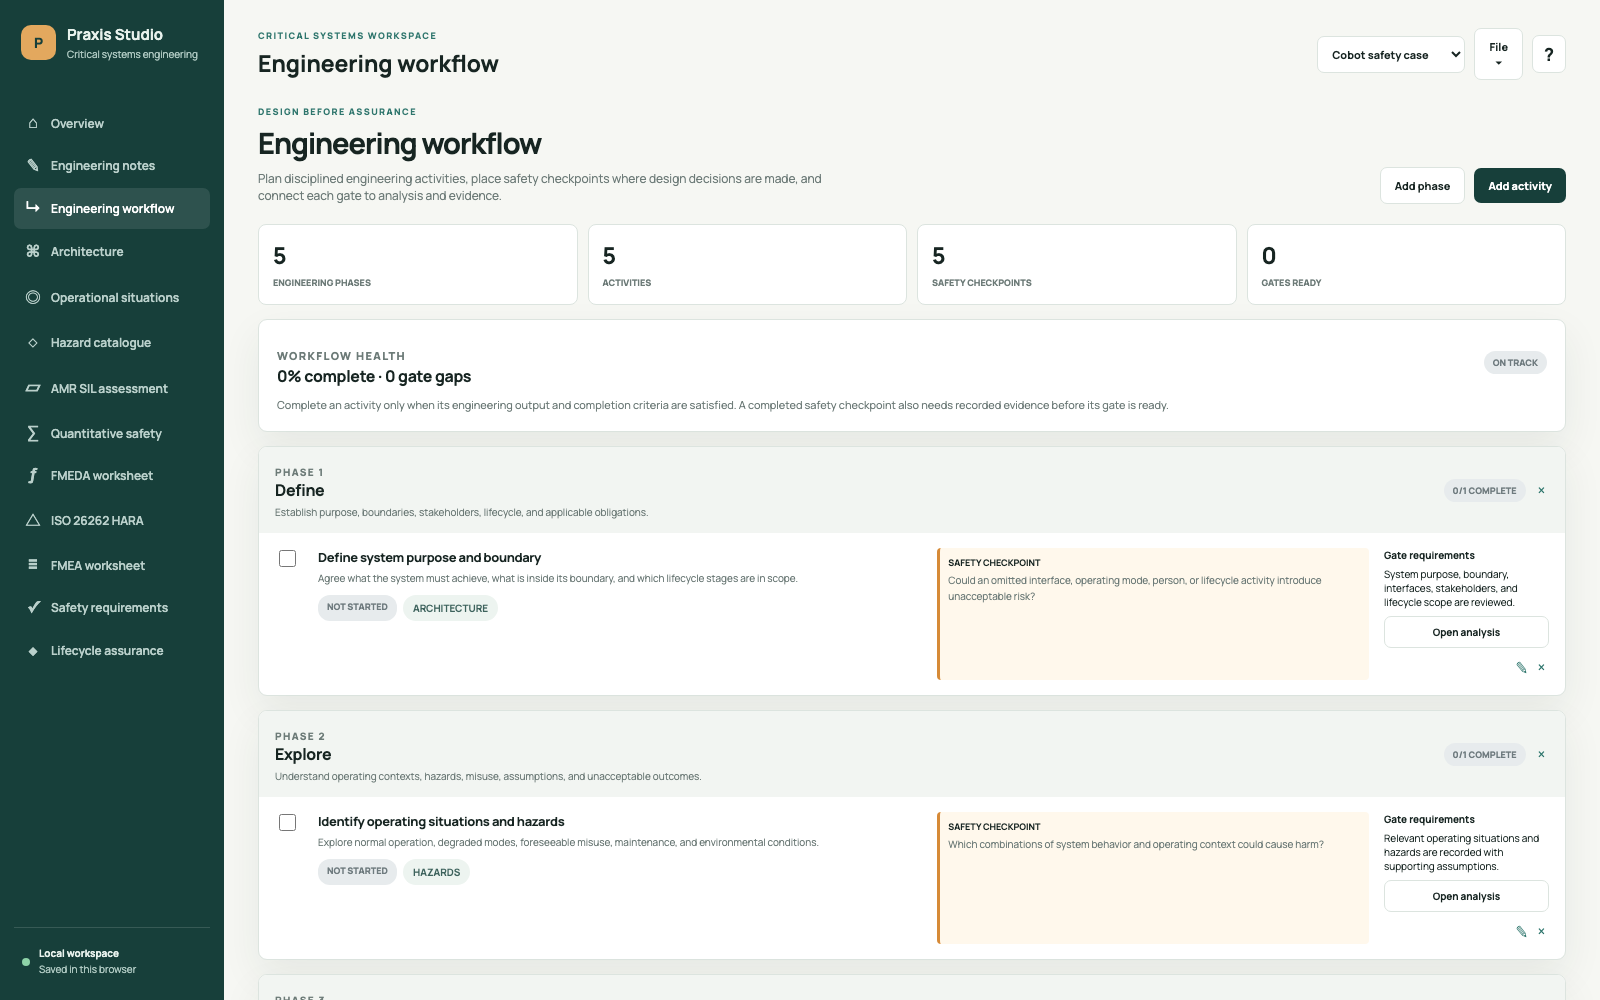
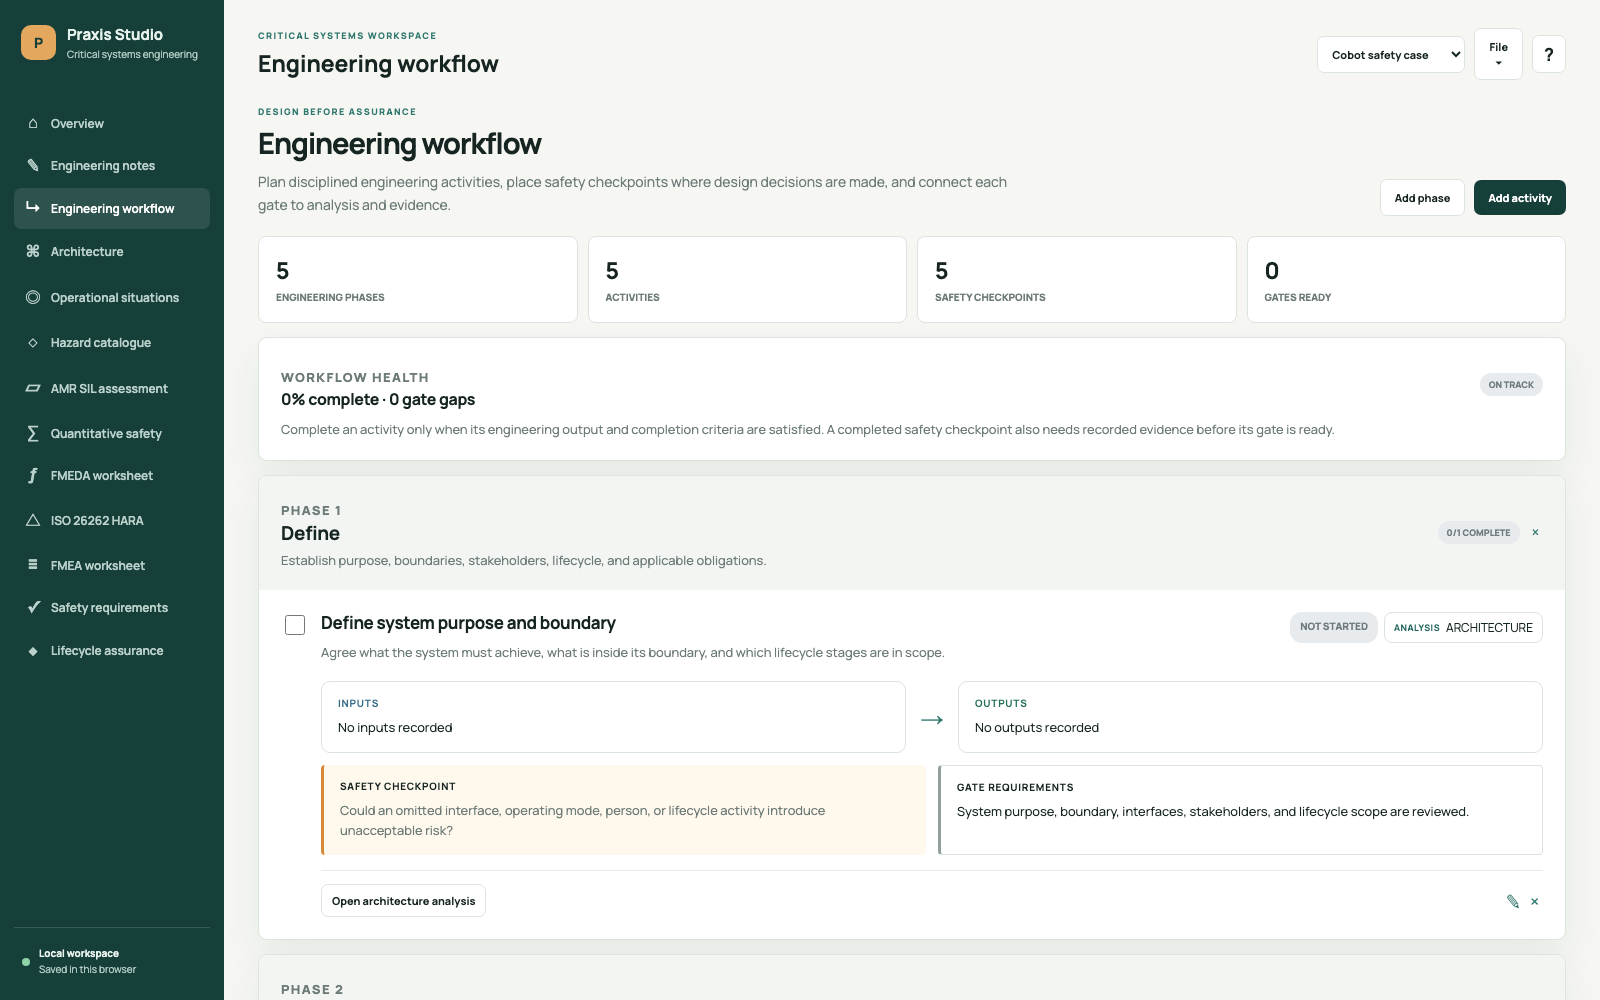
Improve engineering workflow visualization

diff --git a/index.html b/index.html
@@ -487,35 +487,52 @@
       </form>
     </dialog>
 
-    <dialog id="workflow-phase-dialog">
-      <form method="dialog" id="workflow-phase-form">
+    <dialog id="workflow-phase-dialog" class="workflow-dialog">
+      <form method="dialog" id="workflow-phase-form" class="workflow-form">
         <div class="dialog-header"><div><p class="eyebrow">Workflow structure</p><h2>Add engineering phase</h2></div><button class="dialog-close" type="button" data-close-dialog>×</button></div>
+        <p class="workflow-form-intro">Create a phase that groups related engineering activities around a clear lifecycle purpose.</p>
         <div class="form-grid">
           <label><span>Phase name</span><input name="name" required placeholder="e.g. Concept design" /></label>
-          <label><span>Purpose</span><input name="purpose" required placeholder="What should this phase establish?" /></label>
+          <label><span>Purpose</span><textarea name="purpose" required placeholder="What should this phase establish?"></textarea></label>
         </div>
         <div class="dialog-actions"><button class="button secondary" type="button" data-close-dialog>Cancel</button><button class="button primary" value="default">Add phase</button></div>
       </form>
     </dialog>
 
-    <dialog id="workflow-activity-dialog">
-      <form method="dialog" id="workflow-activity-form">
+    <dialog id="workflow-activity-dialog" class="workflow-dialog workflow-activity-dialog">
+      <form method="dialog" id="workflow-activity-form" class="workflow-form">
         <div class="dialog-header"><div><p class="eyebrow">Engineering activity</p><h2 id="workflow-activity-title">Add activity</h2></div><button class="dialog-close" type="button" data-close-dialog>×</button></div>
         <input type="hidden" name="id" />
-        <div class="form-grid">
-          <label><span>Phase</span><select name="phaseId" required></select></label>
-          <label><span>Owner</span><input name="owner" placeholder="e.g. System architect" /></label>
-          <label><span>Predecessor gate</span><select name="predecessor"><option value="">No predecessor</option></select></label>
-          <label class="wide"><span>Activity</span><input name="title" required placeholder="e.g. Define system boundary" /></label>
-          <label class="wide"><span>Objective</span><textarea name="objective" required placeholder="What engineering decision or output should this activity produce?"></textarea></label>
-          <label><span>Inputs</span><input name="inputs" placeholder="Models, stakeholder needs, assumptions" /></label>
-          <label><span>Outputs</span><input name="outputs" placeholder="Architecture, decision record, requirements" /></label>
-          <label class="wide"><span>Safety checkpoint</span><textarea name="safetyCheckpoint" placeholder="What safety question must be considered at this point?"></textarea></label>
-          <label><span>Linked analysis</span><select name="analysis"><option value="">No linked analysis</option><option value="architecture">Architecture</option><option value="situations">Operational situations</option><option value="hazards">Hazard catalogue</option><option value="hara">HARA</option><option value="sil">SIL assessment</option><option value="fmea">FMEA</option><option value="fmeda">FMEDA</option><option value="quantitative">Quantitative safety</option><option value="requirements">Safety requirements</option><option value="assurance">Lifecycle assurance</option></select></label>
-          <label><span>Status</span><select name="status"><option>Not started</option><option>In progress</option><option>Complete</option></select></label>
-          <label class="wide"><span>Standard or assurance objective</span><input name="standardReference" placeholder="e.g. IEC 61508-1 clause 7.1 or internal design-review objective" /></label>
-          <label class="wide"><span>Completion criteria</span><input name="completionCriteria" placeholder="Conditions required before this activity is complete" /></label>
-          <label class="wide"><span>Evidence</span><input name="evidence" placeholder="Review record, test report, model, calculation, or decision rationale" /></label>
+        <p class="workflow-form-intro">Describe the work, the information it consumes, the deliverables it creates, and the evidence needed to pass its gate.</p>
+        <div class="workflow-form-sections">
+          <section class="workflow-form-section">
+            <div class="workflow-form-section-heading"><span>1</span><div><h3>Activity definition</h3><p>Place the task in the lifecycle and make accountability clear.</p></div></div>
+            <div class="form-grid">
+              <label><span>Phase</span><select name="phaseId" required></select></label>
+              <label><span>Owner</span><input name="owner" placeholder="e.g. System architect" /></label>
+              <label><span>Status</span><select name="status"><option>Not started</option><option>In progress</option><option>Complete</option></select></label>
+              <label><span>Predecessor gate</span><select name="predecessor"><option value="">No predecessor</option></select></label>
+              <label class="wide"><span>Activity</span><input name="title" required placeholder="e.g. Define system boundary" /></label>
+              <label class="wide"><span>Objective</span><textarea name="objective" required placeholder="What engineering decision or result should this activity produce?"></textarea></label>
+            </div>
+          </section>
+          <section class="workflow-form-section workflow-form-flow">
+            <div class="workflow-form-section-heading"><span>2</span><div><h3>Inputs and deliverables</h3><p>Show what the task needs and what downstream work can expect from it.</p></div></div>
+            <div class="form-grid">
+              <label><span>Inputs</span><textarea name="inputs" placeholder="Models, stakeholder needs, assumptions, prior decisions"></textarea></label>
+              <label><span>Outputs</span><textarea name="outputs" placeholder="Architecture, decision record, requirements, calculations"></textarea></label>
+            </div>
+          </section>
+          <section class="workflow-form-section workflow-form-assurance">
+            <div class="workflow-form-section-heading"><span>3</span><div><h3>Safety and assurance</h3><p>Connect the activity to analysis, acceptance criteria, and objective evidence.</p></div></div>
+            <div class="form-grid">
+              <label><span>Linked analysis</span><select name="analysis"><option value="">No linked analysis</option><option value="architecture">Architecture</option><option value="situations">Operational situations</option><option value="hazards">Hazard catalogue</option><option value="hara">HARA</option><option value="sil">SIL assessment</option><option value="fmea">FMEA</option><option value="fmeda">FMEDA</option><option value="quantitative">Quantitative safety</option><option value="requirements">Safety requirements</option><option value="assurance">Lifecycle assurance</option></select></label>
+              <label><span>Standard or assurance objective</span><input name="standardReference" placeholder="e.g. IEC 61508-1 clause 7.1" /></label>
+              <label class="wide"><span>Safety checkpoint</span><textarea name="safetyCheckpoint" placeholder="What safety question must be considered at this point?"></textarea></label>
+              <label class="wide"><span>Completion criteria</span><textarea name="completionCriteria" placeholder="Conditions required before this activity is complete"></textarea></label>
+              <label class="wide"><span>Evidence</span><textarea name="evidence" placeholder="Review record, test report, model, calculation, or decision rationale"></textarea></label>
+            </div>
+          </section>
         </div>
         <div class="dialog-actions"><button class="button secondary" type="button" data-close-dialog>Cancel</button><button class="button primary" value="default">Save activity</button></div>
       </form>

diff --git a/app/praxis-studio.browser.js b/app/praxis-studio.browser.js
@@ -1404,11 +1404,31 @@ function renderWorkflow() {
       <div class="workflow-activity-list">${phaseActivities.length ? phaseActivities.map((activity) => {
       const ready2 = workflowGateReady(activity);
       const statusClass = activity.status === "Complete" ? "verified" : activity.status === "In progress" ? "planned" : "draft";
+      const predecessor = state.workflow.activities.find((item) => item.id === activity.predecessor);
       return `<article class="workflow-activity">
           <input class="workflow-check" type="checkbox" title="Mark complete" data-toggle-workflow-activity="${activity.id}" ${activity.status === "Complete" ? "checked" : ""} />
-          <div><h3>${esc(activity.title)}</h3><p>${esc(activity.objective)}</p><div class="workflow-meta"><span class="status ${statusClass}">${esc(activity.status)}</span>${activity.owner ? `<span class="tag">${esc(activity.owner)}</span>` : ""}${activity.analysis ? `<span class="tag">${esc(activity.analysis.toUpperCase())}</span>` : ""}${activity.standardReference ? `<span class="tag">${esc(activity.standardReference)}</span>` : ""}${activity.predecessor ? `<span class="tag">After ${esc(state.workflow.activities.find((item) => item.id === activity.predecessor)?.title || "missing gate")}</span>` : ""}</div></div>
-          <div class="workflow-checkpoint"><strong>Safety checkpoint</strong><p>${esc(activity.safetyCheckpoint || "No checkpoint defined. Review whether this decision can affect risk.")}</p></div>
-          <div class="workflow-row-actions"><div class="workflow-evidence ${activity.status === "Complete" && !ready2 ? "missing" : ""}"><strong>${ready2 ? "Gate evidence ready" : "Gate requirements"}</strong>${esc(activity.evidence || activity.completionCriteria || "Add completion criteria and evidence.")}</div>${activity.analysis ? `<button class="button secondary small" data-open-workflow-analysis="${activity.analysis}">Open analysis</button>` : ""}<div class="row-actions"><button class="mini-btn" title="Edit" data-edit-workflow-activity="${activity.id}">✎</button><button class="mini-btn" title="Delete" data-delete-workflow-activity="${activity.id}">×</button></div></div>
+          <div class="workflow-activity-content">
+            <div class="workflow-activity-heading">
+              <div><h3>${esc(activity.title)}</h3><div class="workflow-objective"><strong>Objective</strong><p>${esc(activity.objective)}</p></div></div>
+              <div class="workflow-meta">
+                <span class="status ${statusClass}">${esc(activity.status)}</span>
+                ${activity.owner ? `<span class="workflow-chip owner"><b>Owner</b>${esc(activity.owner)}</span>` : ""}
+                ${activity.analysis ? `<span class="workflow-chip analysis"><b>Analysis</b>${esc(activity.analysis.toUpperCase())}</span>` : ""}
+                ${activity.standardReference ? `<span class="workflow-chip standard"><b>Standard</b>${esc(activity.standardReference)}</span>` : ""}
+                ${activity.predecessor ? `<span class="workflow-chip predecessor"><b>After</b>${esc(predecessor?.title || "Missing gate")}</span>` : ""}
+              </div>
+            </div>
+            <div class="workflow-flow">
+              <section class="workflow-data inputs"><strong>Inputs</strong><p>${esc(activity.inputs || "No inputs recorded")}</p></section>
+              <span class="workflow-flow-arrow" aria-hidden="true">→</span>
+              <section class="workflow-data outputs"><strong>Outputs</strong><p>${esc(activity.outputs || "No outputs recorded")}</p></section>
+            </div>
+            <div class="workflow-assurance-grid">
+              <div class="workflow-checkpoint"><strong>Safety checkpoint</strong><p>${esc(activity.safetyCheckpoint || "No checkpoint defined. Review whether this decision can affect risk.")}</p></div>
+              <div class="workflow-evidence ${activity.status === "Complete" && !ready2 ? "missing" : ""}"><strong>${ready2 ? "Gate evidence ready" : "Gate requirements"}</strong><p>${esc(activity.evidence || activity.completionCriteria || "Add completion criteria and evidence.")}</p></div>
+            </div>
+            <div class="workflow-row-actions">${activity.analysis ? `<button class="button secondary small" data-open-workflow-analysis="${activity.analysis}">Open ${esc(activity.analysis)} analysis</button>` : ""}<div class="row-actions"><button class="mini-btn" title="Edit" data-edit-workflow-activity="${activity.id}">✎</button><button class="mini-btn" title="Delete" data-delete-workflow-activity="${activity.id}">×</button></div></div>
+          </div>
         </article>`;
     }).join("") : '<p class="workflow-empty">No activities in this phase yet.</p>'}</div>
     </section>`;

diff --git a/app/praxis-studio.ts b/app/praxis-studio.ts
@@ -1105,11 +1105,31 @@ function renderWorkflow() {
       <div class="workflow-activity-list">${phaseActivities.length ? phaseActivities.map(activity => {
         const ready = workflowGateReady(activity);
         const statusClass = activity.status === "Complete" ? "verified" : activity.status === "In progress" ? "planned" : "draft";
+        const predecessor = state.workflow.activities.find(item => item.id === activity.predecessor);
         return `<article class="workflow-activity">
           <input class="workflow-check" type="checkbox" title="Mark complete" data-toggle-workflow-activity="${activity.id}" ${activity.status === "Complete" ? "checked" : ""} />
-          <div><h3>${esc(activity.title)}</h3><p>${esc(activity.objective)}</p><div class="workflow-meta"><span class="status ${statusClass}">${esc(activity.status)}</span>${activity.owner ? `<span class="tag">${esc(activity.owner)}</span>` : ""}${activity.analysis ? `<span class="tag">${esc(activity.analysis.toUpperCase())}</span>` : ""}${activity.standardReference ? `<span class="tag">${esc(activity.standardReference)}</span>` : ""}${activity.predecessor ? `<span class="tag">After ${esc(state.workflow.activities.find(item => item.id === activity.predecessor)?.title || "missing gate")}</span>` : ""}</div></div>
-          <div class="workflow-checkpoint"><strong>Safety checkpoint</strong><p>${esc(activity.safetyCheckpoint || "No checkpoint defined. Review whether this decision can affect risk.")}</p></div>
-          <div class="workflow-row-actions"><div class="workflow-evidence ${activity.status === "Complete" && !ready ? "missing" : ""}"><strong>${ready ? "Gate evidence ready" : "Gate requirements"}</strong>${esc(activity.evidence || activity.completionCriteria || "Add completion criteria and evidence.")}</div>${activity.analysis ? `<button class="button secondary small" data-open-workflow-analysis="${activity.analysis}">Open analysis</button>` : ""}<div class="row-actions"><button class="mini-btn" title="Edit" data-edit-workflow-activity="${activity.id}">✎</button><button class="mini-btn" title="Delete" data-delete-workflow-activity="${activity.id}">×</button></div></div>
+          <div class="workflow-activity-content">
+            <div class="workflow-activity-heading">
+              <div><h3>${esc(activity.title)}</h3><div class="workflow-objective"><strong>Objective</strong><p>${esc(activity.objective)}</p></div></div>
+              <div class="workflow-meta">
+                <span class="status ${statusClass}">${esc(activity.status)}</span>
+                ${activity.owner ? `<span class="workflow-chip owner"><b>Owner</b>${esc(activity.owner)}</span>` : ""}
+                ${activity.analysis ? `<span class="workflow-chip analysis"><b>Analysis</b>${esc(activity.analysis.toUpperCase())}</span>` : ""}
+                ${activity.standardReference ? `<span class="workflow-chip standard"><b>Standard</b>${esc(activity.standardReference)}</span>` : ""}
+                ${activity.predecessor ? `<span class="workflow-chip predecessor"><b>After</b>${esc(predecessor?.title || "Missing gate")}</span>` : ""}
+              </div>
+            </div>
+            <div class="workflow-flow">
+              <section class="workflow-data inputs"><strong>Inputs</strong><p>${esc(activity.inputs || "No inputs recorded")}</p></section>
+              <span class="workflow-flow-arrow" aria-hidden="true">→</span>
+              <section class="workflow-data outputs"><strong>Outputs</strong><p>${esc(activity.outputs || "No outputs recorded")}</p></section>
+            </div>
+            <div class="workflow-assurance-grid">
+              <div class="workflow-checkpoint"><strong>Safety checkpoint</strong><p>${esc(activity.safetyCheckpoint || "No checkpoint defined. Review whether this decision can affect risk.")}</p></div>
+              <div class="workflow-evidence ${activity.status === "Complete" && !ready ? "missing" : ""}"><strong>${ready ? "Gate evidence ready" : "Gate requirements"}</strong><p>${esc(activity.evidence || activity.completionCriteria || "Add completion criteria and evidence.")}</p></div>
+            </div>
+            <div class="workflow-row-actions">${activity.analysis ? `<button class="button secondary small" data-open-workflow-analysis="${activity.analysis}">Open ${esc(activity.analysis)} analysis</button>` : ""}<div class="row-actions"><button class="mini-btn" title="Edit" data-edit-workflow-activity="${activity.id}">✎</button><button class="mini-btn" title="Delete" data-delete-workflow-activity="${activity.id}">×</button></div></div>
+          </div>
         </article>`;
       }).join("") : '<p class="workflow-empty">No activities in this phase yet.</p>'}</div>
     </section>`;

diff --git a/styles.css b/styles.css
@@ -10,3 +10,24 @@
 .help-sections{display:grid;gap:10px;grid-template-columns:1fr 1fr}.help-sections section{background:#f7f9f7;border-radius:7px;padding:11px}.help-sections h3{font-size:12px;margin:0 0 6px}.help-sections p{color:var(--muted);font-size:10px;line-height:1.6;margin:0}.help-sections code{font-family:"DM Mono";font-size:9px}@media(max-width:700px){.help-sections{grid-template-columns:1fr}}
 .workflow-summary{display:grid;gap:10px;grid-template-columns:repeat(4,1fr);margin-bottom:14px}.workflow-stat{background:#fff;border:1px solid var(--line);border-radius:8px;padding:14px}.workflow-stat strong{display:block;font-size:23px}.workflow-stat span{color:var(--muted);font-size:9px;font-weight:800;text-transform:uppercase}.workflow-guidance{margin-bottom:14px}.workflow-guidance p{color:var(--muted);font-size:11px;line-height:1.6;margin:9px 0 0}.workflow-board{display:grid;gap:14px}.workflow-phase{background:#fff;border:1px solid var(--line);border-radius:9px;box-shadow:var(--shadow);overflow:hidden}.workflow-phase-header{align-items:center;background:#f2f5f2;display:flex;justify-content:space-between;padding:14px 16px}.workflow-phase-header p{color:var(--muted);font-size:10px;margin:4px 0 0}.workflow-phase-actions{align-items:center;display:flex;gap:8px}.workflow-activity-list{display:grid}.workflow-activity{border-top:1px solid #e7ece9;display:grid;gap:15px;grid-template-columns:28px minmax(220px,1.4fr) minmax(180px,1fr) 165px;padding:15px 16px}.workflow-activity:first-child{border-top:0}.workflow-check{accent-color:var(--teal);height:17px;margin-top:2px;width:17px}.workflow-activity h3{font-size:13px;margin:0 0 5px}.workflow-activity p{color:var(--muted);font-size:10px;line-height:1.55;margin:0}.workflow-meta{display:flex;flex-wrap:wrap;gap:6px;margin-top:8px}.workflow-checkpoint{background:#fff8ec;border-left:3px solid var(--amber);border-radius:4px;padding:8px}.workflow-checkpoint strong{display:block;font-size:9px;margin-bottom:4px;text-transform:uppercase}.workflow-evidence{font-size:10px}.workflow-evidence strong{display:block;margin-bottom:5px}.workflow-evidence.missing{color:var(--red)}.workflow-empty{color:var(--muted);font-size:11px;padding:16px}.workflow-row-actions{align-items:flex-end;display:flex;flex-direction:column;gap:7px}.workflow-row-actions .button{width:100%}@media(max-width:900px){.workflow-activity{grid-template-columns:28px 1fr}.workflow-checkpoint,.workflow-row-actions{grid-column:2}.workflow-summary{grid-template-columns:repeat(2,1fr)}}@media(max-width:700px){.workflow-summary{grid-template-columns:1fr 1fr}.workflow-phase-header{align-items:flex-start;gap:10px}.workflow-activity{grid-template-columns:24px 1fr;padding:12px}}
 .sidebar nav{overflow-y:auto}.assurance-summary{display:grid;gap:10px;grid-template-columns:repeat(5,1fr);margin-bottom:14px}.assurance-health{margin-bottom:14px}.assurance-health p{color:var(--muted);font-size:11px;line-height:1.65;margin:10px 0 0}.assurance-section-grid{display:grid;gap:14px;grid-template-columns:1.2fr 1fr;margin-bottom:14px}.assurance-panel{overflow:hidden;padding:0}.assurance-panel .card-header{padding:16px 18px}.assurance-table{min-width:760px}.assurance-board{display:grid;gap:14px;grid-template-columns:repeat(2,1fr)}.assurance-record-group{background:#fff;border:1px solid var(--line);border-radius:9px;box-shadow:var(--shadow);overflow:hidden}.assurance-group-header{align-items:center;background:#f2f5f2;display:flex;justify-content:space-between;padding:13px 15px}.assurance-record{align-items:flex-start;border-top:1px solid #e7ece9;display:flex;gap:12px;justify-content:space-between;padding:13px 15px}.assurance-record:first-child{border-top:0}.assurance-record strong{font-size:11px}.assurance-record p{color:var(--muted);font-size:10px;line-height:1.5;margin:5px 0}.assurance-record span{color:var(--muted);font-size:9px}.assurance-record-actions{align-items:flex-end;display:flex;flex-direction:column;gap:7px;min-width:100px}.assurance-record-actions .status{color:inherit}.assurance-audit{margin-top:14px}.audit-entry{align-items:center;border-top:1px solid #edf0ee;display:grid;gap:10px;grid-template-columns:145px 160px 1fr;padding:10px 0}.audit-entry time,.audit-entry span{color:var(--muted);font-size:9px}.audit-entry strong{font-size:10px}.assurance-fields{margin-top:14px}@media(max-width:1050px){.assurance-summary{grid-template-columns:repeat(3,1fr)}.assurance-section-grid,.assurance-board{grid-template-columns:1fr}}@media(max-width:700px){.assurance-summary{grid-template-columns:repeat(2,1fr)}.audit-entry{grid-template-columns:1fr}.assurance-record{flex-direction:column}.assurance-record-actions{align-items:flex-start}}
+
+/* Engineering workflow: readable task flow, differentiated metadata, and structured forms. */
+#workflow-view .catalog-intro p:not(.eyebrow){font-size:14px;line-height:1.65;max-width:760px}
+.workflow-phase-header{padding:20px 22px}.workflow-phase-header h3{font-size:19px}.workflow-phase-header p{font-size:13px;line-height:1.55;max-width:820px}
+.workflow-guidance{padding:20px 22px}.workflow-guidance p{font-size:13px}.workflow-stat{padding:17px}.workflow-stat span{font-size:10px}.workflow-activity{align-items:start;gap:14px;grid-template-columns:26px minmax(0,1fr);padding:22px}.workflow-check{height:20px;margin-top:3px;width:20px}.workflow-activity-content{min-width:0}.workflow-activity-heading{align-items:flex-start;display:flex;gap:20px;justify-content:space-between}.workflow-activity-heading>div:first-child{max-width:760px}.workflow-activity h3{font-size:17px;line-height:1.35;margin-bottom:7px}.workflow-activity p{font-size:13px;line-height:1.6}.workflow-meta{justify-content:flex-end;margin-top:0;max-width:520px}.workflow-meta .status{font-size:10px;padding:7px 10px}.workflow-chip{align-items:center;border:1px solid transparent;border-radius:8px;display:inline-flex;font-size:12px;gap:6px;line-height:1.25;padding:7px 9px}.workflow-chip b{font-size:9px;letter-spacing:.5px;text-transform:uppercase}.workflow-chip.owner{background:#e7f0f7;border-color:#c9dce9;color:#315f7b}.workflow-chip.analysis{background:#e2f1ed;border-color:#c4ded7;color:#23675e}.workflow-chip.standard{background:#fff1dd;border-color:#efd8b6;color:#865a20}.workflow-chip.predecessor{background:#eef0f3;border-color:#d9dee3;color:#59646b}.workflow-flow{align-items:stretch;display:grid;gap:12px;grid-template-columns:minmax(0,1fr) 28px minmax(0,1fr);margin-top:18px}.workflow-data{border:1px solid;border-radius:9px;padding:14px 16px}.workflow-data strong,.workflow-checkpoint strong,.workflow-evidence strong{display:block;font-size:10px;letter-spacing:.8px;margin-bottom:7px;text-transform:uppercase}.workflow-data p{color:var(--ink);font-size:13px}.workflow-data.inputs{background:#eef5fa;border-color:#cfe0eb}.workflow-data.inputs strong{color:#356c8a}.workflow-data.outputs{background:#edf7f2;border-color:#cce3d7}.workflow-data.outputs strong{color:#28705a}.workflow-flow-arrow{align-items:center;color:var(--teal);display:flex;font-size:23px;font-weight:700;justify-content:center}.workflow-assurance-grid{display:grid;gap:12px;grid-template-columns:1fr 1fr;margin-top:12px}.workflow-checkpoint{padding:14px 16px}.workflow-checkpoint strong{font-size:10px}.workflow-evidence{background:#f5f6f5;border-left:3px solid #91a09c;border-radius:4px;font-size:13px;padding:14px 16px}.workflow-evidence p{color:var(--ink)}.workflow-evidence.missing{background:#fff0ef;border-left-color:var(--red)}.workflow-row-actions{align-items:center;border-top:1px solid #e7ece9;flex-direction:row;justify-content:flex-end;margin-top:15px;padding-top:13px}.workflow-row-actions .button{font-size:11px;width:auto}.workflow-row-actions .row-actions{margin-left:auto}.workflow-row-actions .mini-btn{font-size:18px}
+.workflow-dialog{max-width:760px}.workflow-activity-dialog{max-width:920px}.workflow-dialog form{padding:28px}.workflow-form-intro{background:#f1f6f3;border-left:4px solid var(--teal);color:#4f625d;font-size:14px;line-height:1.6;margin:-3px 0 20px;padding:12px 14px}.workflow-form-sections{display:grid;gap:16px;max-height:62vh;overflow:auto;padding:2px 8px 2px 2px}.workflow-form-section{background:#fafbf9;border:1px solid var(--line);border-radius:10px;padding:18px}.workflow-form-section-heading{align-items:flex-start;display:flex;gap:11px;margin-bottom:16px}.workflow-form-section-heading>span{align-items:center;background:var(--green);border-radius:50%;color:#fff;display:flex;font-size:12px;font-weight:800;height:27px;justify-content:center;min-width:27px}.workflow-form-section-heading h3{font-size:16px;margin:1px 0 3px}.workflow-form-section-heading p{color:var(--muted);font-size:12px;line-height:1.5;margin:0}.workflow-form label>span{color:#3e524d;font-size:11px;letter-spacing:.45px;margin-bottom:7px}.workflow-form input,.workflow-form select,.workflow-form textarea{border-color:#cfdad4;border-radius:7px;font-size:14px;line-height:1.45;padding:12px}.workflow-form textarea{min-height:92px}.workflow-form input:focus,.workflow-form select:focus,.workflow-form textarea:focus{border-color:var(--teal);box-shadow:0 0 0 3px rgba(47,118,109,.12);outline:0}.workflow-form-flow{background:#f7fafb}.workflow-form-assurance{background:#fffaf3}.workflow-form .dialog-actions{background:#fff;border-top:1px solid var(--line);margin:20px -28px -28px;padding:16px 28px;position:sticky;bottom:0}.workflow-form .dialog-actions .button{font-size:13px;padding:11px 17px}
+@media(max-width:1100px){.workflow-activity-heading{display:block}.workflow-meta{justify-content:flex-start;margin-top:12px;max-width:none}}
+@media(max-width:700px){.workflow-phase-header{padding:16px}.workflow-phase-header h3{font-size:17px}.workflow-activity{grid-template-columns:22px minmax(0,1fr);padding:16px}.workflow-flow,.workflow-assurance-grid{grid-template-columns:1fr}.workflow-flow-arrow{height:20px;transform:rotate(90deg)}.workflow-chip{font-size:11px}.workflow-dialog form{padding:18px}.workflow-form-sections{max-height:65vh;padding-right:3px}.workflow-form-section{padding:14px}.workflow-form .dialog-actions{margin:16px -18px -18px;padding:13px 18px}}
+
+/* Keep workflow color focused on labels and safety-significant information. */
+.workflow-chip,.workflow-chip.owner,.workflow-chip.analysis,.workflow-chip.standard,.workflow-chip.predecessor{background:#fff;border-color:var(--line);color:var(--ink)}
+.workflow-chip.owner b{color:#315f7b}.workflow-chip.analysis b{color:#23675e}.workflow-chip.standard b{color:#996322}.workflow-chip.predecessor b{color:#687477}
+.workflow-data,.workflow-data.inputs,.workflow-data.outputs{background:#fff;border-color:var(--line)}
+.workflow-data.inputs strong{color:#356c8a}.workflow-data.outputs strong{color:#28705a}
+.workflow-objective{margin-top:9px}.workflow-objective strong{color:#59646b;display:block;font-size:10px;letter-spacing:.8px;margin-bottom:4px;text-transform:uppercase}
+.workflow-evidence{background:#fff;border:1px solid var(--line);border-left:3px solid #91a09c}.workflow-evidence.missing{background:#fff;border-color:#f0cfcc;border-left-color:var(--red)}
+.workflow-form-intro{background:#fff;border:0;border-bottom:1px solid var(--line);padding:0 0 14px}
+.workflow-form-section,.workflow-form-flow,.workflow-form-assurance{background:#fff}
+.workflow-form-section-heading>span{background:#fff;border:1px solid var(--line);color:var(--muted)}
+.workflow-form-section:nth-child(1) .workflow-form-section-heading h3{color:#315f7b}.workflow-form-section:nth-child(2) .workflow-form-section-heading h3{color:#28705a}.workflow-form-section:nth-child(3) .workflow-form-section-heading h3{color:#996322}
+.workflow-form label:has([name="owner"])>span{color:#315f7b}.workflow-form label:has([name="analysis"])>span{color:#23675e}.workflow-form label:has([name="inputs"])>span{color:#356c8a}.workflow-form label:has([name="outputs"])>span{color:#28705a}.workflow-form label:has([name="safetyCheckpoint"])>span{color:#996322}.workflow-form label:has([name="evidence"])>span{color:#8e443e}

diff --git a/tests/browser-smoke.js b/tests/browser-smoke.js
@@ -463,6 +463,9 @@ try {
     await fill('#workflow-activity-form [name="phaseId"]', await evaluate(`state.workflow.phases.find(phase => phase.name === "Release").id`));
     await fill('#workflow-activity-form [name="title"]', "Review residual risk");
     await fill('#workflow-activity-form [name="objective"]', "Confirm release decisions are supported by engineering evidence.");
+    await fill('#workflow-activity-form [name="owner"]', "Safety lead");
+    await fill('#workflow-activity-form [name="inputs"]', "Hazard log and validation results");
+    await fill('#workflow-activity-form [name="outputs"]', "Residual risk acceptance record");
     await fill('#workflow-activity-form [name="safetyCheckpoint"]', "Are residual risks accepted by authorized reviewers?");
     await fill('#workflow-activity-form [name="analysis"]', "requirements");
     await fill('#workflow-activity-form [name="standardReference"]', "Internal release assurance objective");
@@ -470,6 +473,11 @@ try {
     await fill('#workflow-activity-form [name="status"]', "Complete");
     await click("#workflow-activity-dialog .dialog-actions .primary");
     assert(await count("#workflow-board .workflow-activity") === activityCount + 1, "workflow activity was not added");
+    assert(await evaluate(`document.querySelector("#workflow-board .workflow-phase:last-child .workflow-flow").textContent.includes("Hazard log and validation results")`), "workflow inputs were not visible");
+    assert(await evaluate(`document.querySelector("#workflow-board .workflow-phase:last-child .workflow-flow").textContent.includes("Residual risk acceptance record")`), "workflow outputs were not visible");
+    assert(await evaluate(`document.querySelector("#workflow-board .workflow-phase:last-child .workflow-objective strong").textContent`) === "Objective", "workflow objective heading was not visible");
+    assert(await count("#workflow-board .workflow-phase:last-child .workflow-chip.owner") === 1, "workflow owner was not visually distinguished");
+    assert(await count("#workflow-board .workflow-phase:last-child .workflow-chip.analysis") === 1, "workflow analysis was not visually distinguished");
     assert(await evaluate(`document.querySelector("#workflow-guidance").textContent.includes("1 gate gap")`), "missing evidence did not create a workflow gate gap");
     await click("#workflow-board .workflow-phase:last-child [data-edit-workflow-activity]");
     await fill('#workflow-activity-form [name="evidence"]', "Residual risk review RR-01");